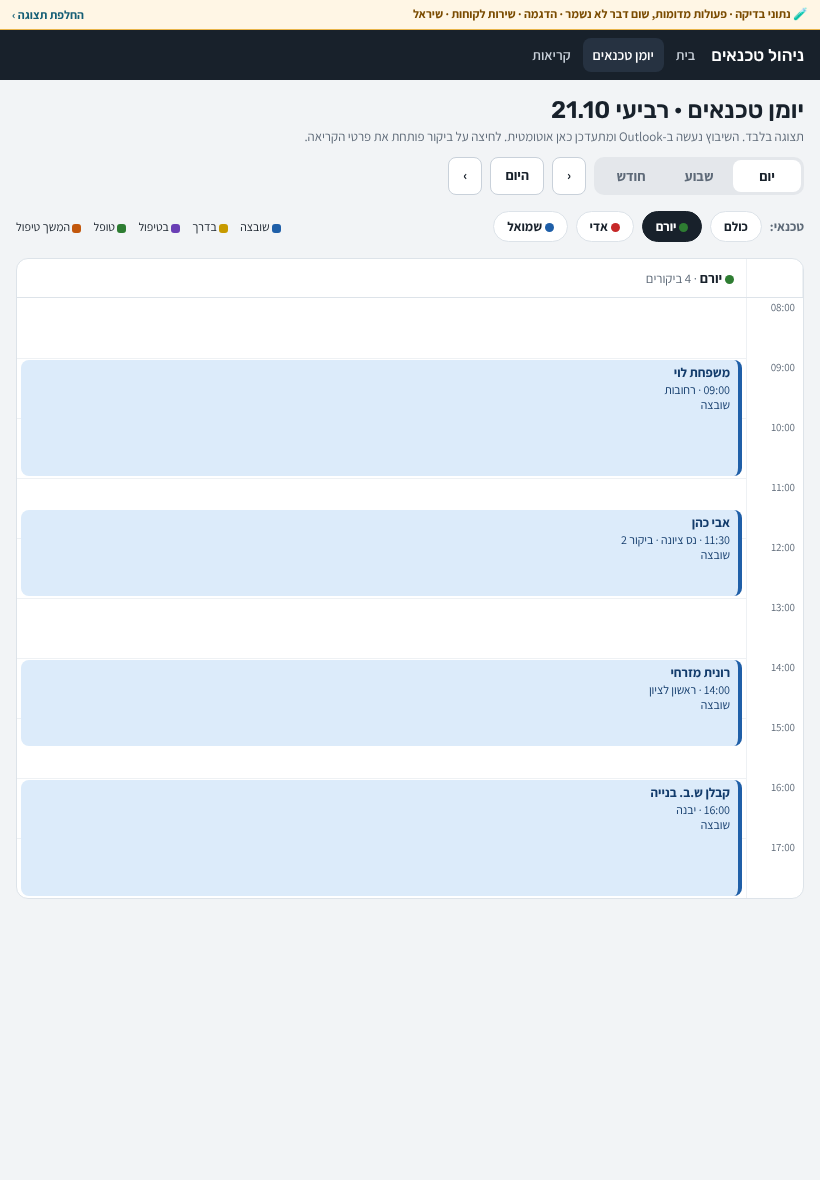
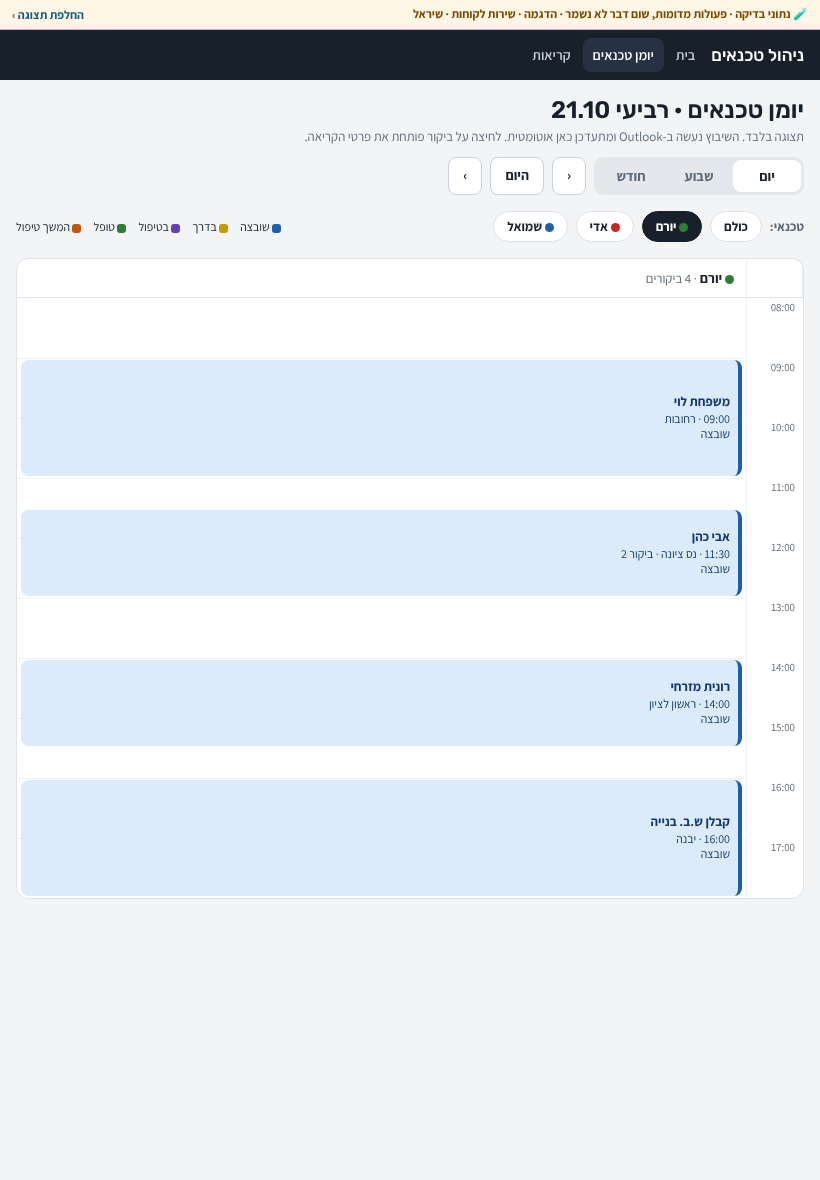
wip(ui-demo-2): phase D integration in progress (checkpoint)
Written by Claude Code under the owner's direction.

diff --git a/styles/ui.css b/styles/ui.css
@@ -148,6 +148,10 @@ a.stat { text-decoration: none; }
 .ev { position: absolute; right: 5px; left: 5px; border-radius: 8px; padding: 5px 8px; font-size: 12px; line-height: 1.3; overflow: hidden; text-align: right; border: 0; border-right: 4px solid; }
 .ev b { font-size: 13px; display: block; }
 .ev:hover { filter: brightness(.97); box-shadow: 0 2px 6px rgba(0, 0, 0, .12); }
+/* .ev blocks that are links (calendars, UI demo D53): the demo's blocks are buttons, which centre
+   their content vertically; the .ev-body wrapper keeps the inline flow and is centred the same way. */
+a.ev { display: flex; align-items: center; text-decoration: none; }
+a.ev > .ev-body { min-width: 0; }
 /* Visit drawer (L159-164) and key-value list (L165-166). */
 .drawer-bg { position: fixed; inset: 0; background: var(--scrim); z-index: 60; display: flex; justify-content: flex-end; }
 .drawer { width: min(440px, 100%); height: 100%; background: var(--card); display: flex; flex-direction: column; box-shadow: 0 0 30px rgba(0, 0, 0, .25); padding-bottom: env(safe-area-inset-bottom, 0px); }

diff --git a/components/tech/CalendarDay.tsx b/components/tech/CalendarDay.tsx
@@ -125,16 +125,18 @@ export function CalendarDayTimeline({
                 overflowWrap: "anywhere",
               }}
             >
-              <b>
-                {v.customerName} · <span className="num">{v.start}</span>
-                {v.isTest && (
-                  <>
-                    {" "}
-                    <TestBadge />
-                  </>
-                )}
-              </b>
-              {v.city} · {visitSubject(v)}
+              <span className="ev-body">
+                <b>
+                  {v.customerName} · <span className="num">{v.start}</span>
+                  {v.isTest && (
+                    <>
+                      {" "}
+                      <TestBadge />
+                    </>
+                  )}
+                </b>
+                {v.city} · {visitSubject(v)}
+              </span>
             </Link>
           );
         })}

diff --git a/components/office/CalendarDayView.tsx b/components/office/CalendarDayView.tsx
@@ -44,12 +44,14 @@ function DayBlock({ v, from, href }: { v: PlacedCalendarVisit; from: number; hre
         borderRightColor: s.c,
       }}
     >
-      <b>{v.customerName}</b> <span className="num">{v.start}</span> · {v.city}
-      {v.n > 1 && ` · ביקור ${v.n}`} <br />
-      {s.label}
-      <span className="sr-only">
-        {" "}
-        · עד {v.end} · {v.technician.name}
+      <span className="ev-body">
+        <b>{v.customerName}</b> <span className="num">{v.start}</span> · {v.city}
+        {v.n > 1 && ` · ביקור ${v.n}`} <br />
+        {s.label}
+        <span className="sr-only">
+          {" "}
+          · עד {v.end} · {v.technician.name}
+        </span>
       </span>
     </Link>
   );
